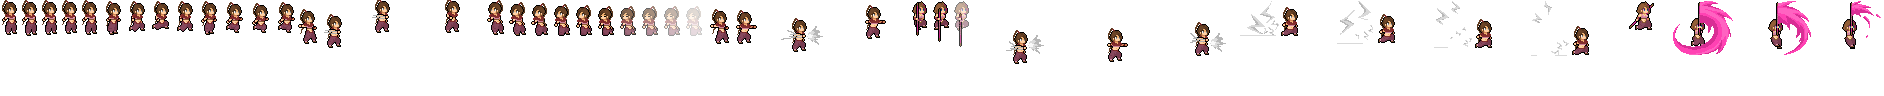
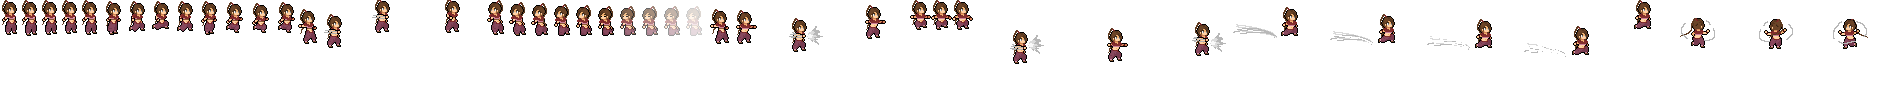
fix ty lee ult anims

diff --git a/src/ty_lee/mod.rs b/src/ty_lee/mod.rs
@@ -56,7 +56,7 @@ pub const LIGHTFOOTED_RANGE: u64 = 40_000;
 /// does need one - see `tick`.
 pub const LIGHTFOOTED_BUFF: &str = "ty_lee_lightfooted";
 pub const LIGHTFOOTED_DURATION: usize = 4 * 60;
-pub const LIGHTFOOTED_SHIELD: usize = 200;
+pub const LIGHTFOOTED_SHIELD: usize = 100;
 pub const LIGHTFOOTED_SHIELD_AD_RATIO: usize = 20;
 pub const LIGHTFOOTED_SHIELD_HP_RATIO: usize = 10;
 /// Full mitigation: the ability is written as dodging basic attacks outright.
@@ -78,6 +78,9 @@ pub const BALANCE_AOE_RADIUS: u64 = 30_000;
 /// goes to the target rather than a fixed distance, so she stops on them
 /// instead of sailing past anything closer than `BALANCE_RANGE`, and a
 /// `CasterAnimation` beside it plays the sheet's `ult_dash` tag over the trip.
+/// A second one in the `end_effects` swaps that for `ult_impact` - the spin the
+/// AoE lands on - which is why the action's `duration` has to cover the longest
+/// dash plus that burst rather than the dash alone.
 pub const BALANCE_SILENCE_TICKS: u64 = 90;
 /// Marker carried while the dash is still carrying her in, naming the target it
 /// owes: `ty_lee_balancing_act_inbound|<entity id>`. The hit lands from the
@@ -86,7 +89,7 @@ pub const BALANCE_SILENCE_TICKS: u64 = 90;
 /// re-picking from wherever she ended up.
 pub const BALANCE_INBOUND_PREFIX: &str = "ty_lee_balancing_act_inbound";
 /// Dropped unfired if she never arrives - a stopped dash owes nothing. Well
-/// clear of the longest trip (`BALANCE_RANGE` / speed 4500 = 27 ticks), since
+/// clear of the longest trip (`BALANCE_RANGE` / speed 4000 = 30 ticks), since
 /// expiring early would silently cost her the whole hit.
 pub const BALANCE_INBOUND_TIMEOUT: usize = 90;
 pub const BALANCE_MARK_BUFF: &str = "ty_lee_balancing_act";

diff --git a/README.md b/README.md
@@ -41,7 +41,7 @@ Strike the target 3 times in quick succession, each dealing 40 (+40% AD) physica
 
 **Lightfooted** (Skill 2)
 
-Dash a short distance in any direction, shielding herself for 200 (+20% AD) (+10% HP) health for 4 seconds. While the shield holds, Ty Lee dodges all basic attacks.
+Dash a short distance in any direction, shielding herself for 100 (+20% AD) (+10% HP) health for 4 seconds. While the shield holds, Ty Lee dodges all basic attacks.
 
 **Balancing Act** (Ultimate)
 
